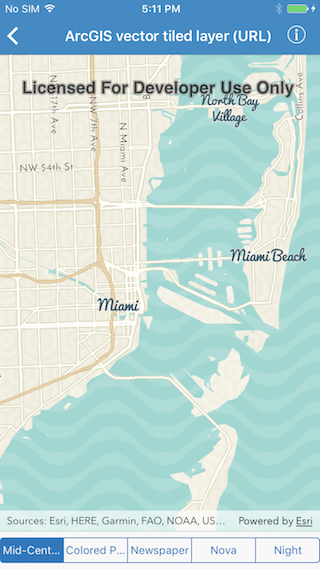
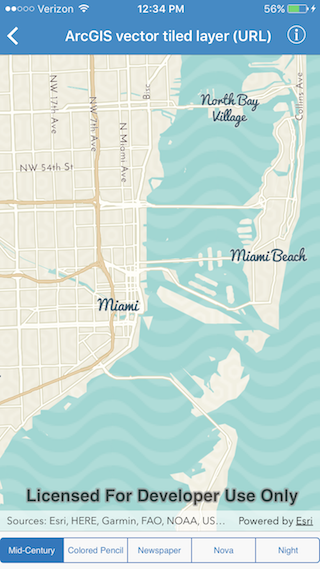
Adjusted size of text in segmented control

diff --git a/arcgis-ios-sdk-samples/Layers/ArcGIS vector tiled layer (URL)/VectorTileLayerViewController.swift b/arcgis-ios-sdk-samples/Layers/ArcGIS vector tiled layer (URL)/VectorTileLayerViewController.swift
@@ -39,6 +39,9 @@ class VectorTileLayerViewController: UIViewController {
             self.segmentedControl.frame = self.segmentedControl.frame.insetBy(dx: -50, dy: 0)
         }
         
+        //Change text size of the segmented control to fit the names of maps
+        segmentedControl.setTitleTextAttributes([NSAttributedStringKey.font:UIFont(name: "Helvetica",size: 10.0)!], for: .normal)
+        
         //create a vector tiled layer
         let vectorTileLayer = AGSArcGISVectorTiledLayer(url: URL(string: midCenturyURLString)!)
         //create a map and set the vector tiled layer as the basemap
